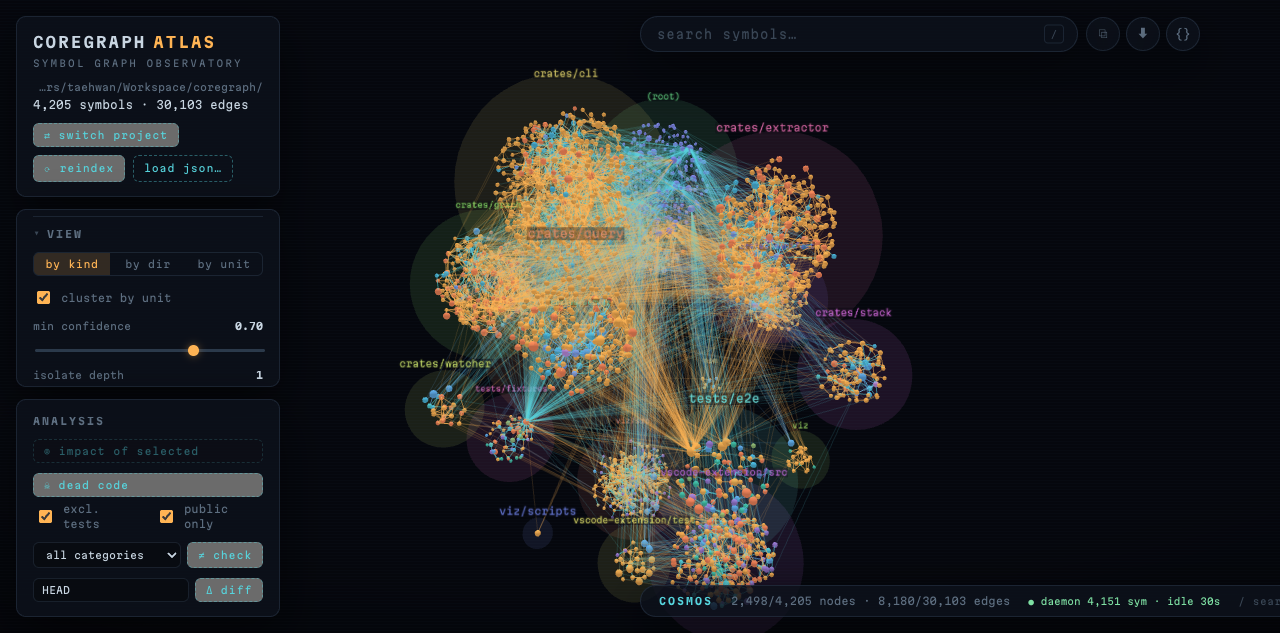
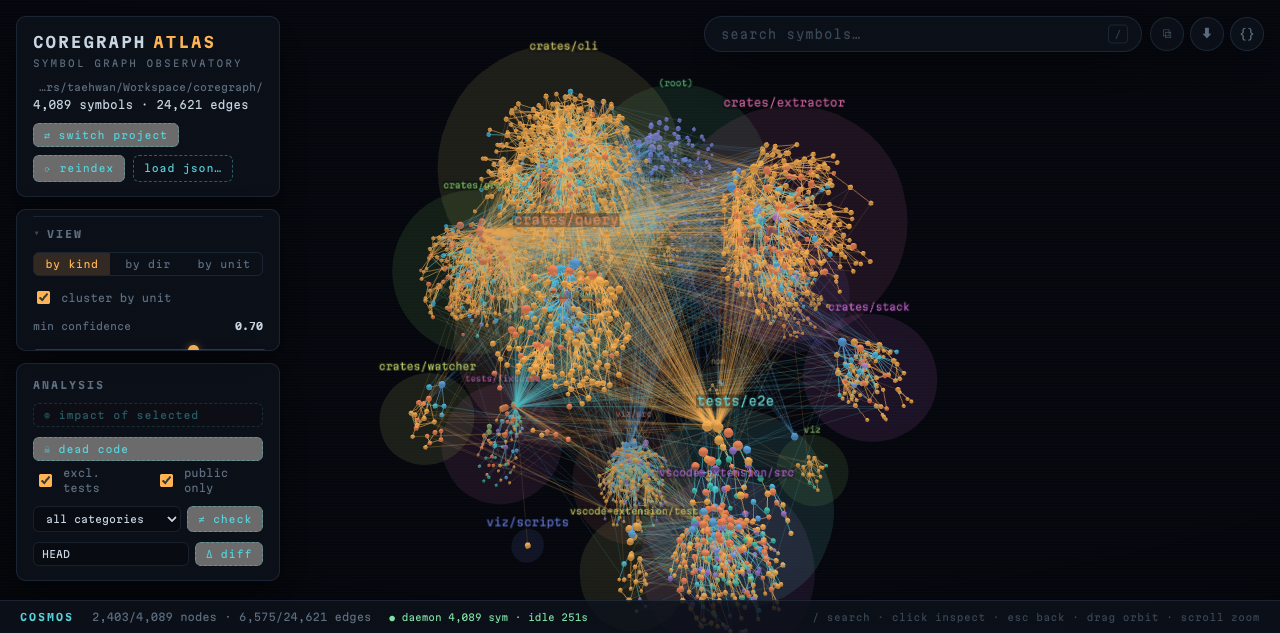
feat(viz): depth fog and per-node cluster pull strength
Add background-colored scene fog whose near/far band tracks the camera
distance, so depth falloff reads the same at cosmos and cluster zoom.
Make the cluster anchor force per-node: high-influence symbols pin to
the cluster core while leaves orbit loosely, giving hubs-in-the-middle
cluster shapes. Refresh the atlas captures (new explore screenshot,
re-shot clusters/impact) and update the README alt texts.

diff --git a/viz/src/components/GraphCanvas.tsx b/viz/src/components/GraphCanvas.tsx
@@ -1,6 +1,6 @@
 import { useCallback, useEffect, useMemo, useRef, useState } from 'react'
 import ForceGraph3D from 'react-force-graph-3d'
-import { Mesh, MeshBasicMaterial, SphereGeometry } from 'three'
+import { Fog, Mesh, MeshBasicMaterial, SphereGeometry } from 'three'
 import SpriteText from 'three-spritetext'
 import type { LinkDatum, NodeDatum } from '../lib/types.ts'
 import { linkEndId } from '../lib/graph.ts'
@@ -158,19 +158,23 @@ function disposeHull(hull: ClusterHull): void {
 }
 
 /**
- * d3-force-compatible custom force pulling each node toward its group anchor.
+ * d3-force-compatible force pulling each node toward its group anchor.
  * Velocity-based like forceX/Y/Z, so it composes with link/charge forces.
+ * The pull strength is per node: high-influence symbols pin to the cluster
+ * core while leaves stay loose and orbit them via their link attraction —
+ * that is what gives each cluster a hub-in-the-middle shape instead of a
+ * uniform ball.
  */
 function makeClusterForce(
   anchorOf: (node: EngineNode) => Anchor | undefined,
-  strength: number,
+  strengthOf: (node: EngineNode) => number,
 ): { (alpha: number): void; initialize: (nodes: EngineNode[]) => void } {
   let nodes: EngineNode[] = []
   const force = (alpha: number): void => {
-    const k = strength * alpha
     for (const node of nodes) {
       const anchor = anchorOf(node)
       if (anchor === undefined || node.x === undefined) continue
+      const k = strengthOf(node) * alpha
       node.vx = (node.vx ?? 0) + (anchor.x - node.x) * k
       node.vy = (node.vy ?? 0) + (anchor.y - (node.y ?? 0)) * k
       node.vz = (node.vz ?? 0) + (anchor.z - (node.z ?? 0)) * k
@@ -490,6 +494,35 @@ export function GraphCanvas({
     tuneControls()
   }, [tuneControls])
 
+  // Depth cue: background-colored fog so distant nodes/links/labels fade
+  // toward the backdrop. The near/far band scales with the camera's distance
+  // from the origin (the graph's center), so the perceived depth falloff is
+  // the same whether the view is fitted to the whole cosmos or zoomed into
+  // one cluster.
+  useEffect(() => {
+    const fg = fgRef.current
+    if (fg === null) return
+    const scene = fg.scene() as { fog: Fog | null }
+    const fog = new Fog(BACKGROUND, 1, 1e9)
+    scene.fog = fog
+    const updateFog = (): void => {
+      const camera = fg.camera() as { position: { x: number; y: number; z: number } }
+      const distance = Math.hypot(camera.position.x, camera.position.y, camera.position.z)
+      fog.near = distance * 0.7
+      fog.far = distance * 2.6
+    }
+    updateFog()
+    const controls = fg.controls() as {
+      addEventListener: (type: string, fn: () => void) => void
+      removeEventListener: (type: string, fn: () => void) => void
+    }
+    controls.addEventListener('change', updateFog)
+    return () => {
+      controls.removeEventListener('change', updateFog)
+      scene.fog = null
+    }
+  }, [])
+
   // While the animated cosmos layout settles, keep the camera tracking the
   // expanding graph with throttled re-fits. Without this the view sits on the
   // initial camera for ~15s and then snaps to a full fit in one jump when the
@@ -583,9 +616,14 @@ export function GraphCanvas({
     const radius = Math.max(360, 95 * Math.sqrt(groups.length) + 60)
     const anchors = sphereAnchors(groups.length, radius)
     const anchorByGroup = new Map(groups.map((group, index) => [group, anchors[index]]))
+    // Influence-weighted pull: a hub is pinned hard to the cluster core,
+    // while low-degree symbols are held only loosely and get arranged
+    // around their hubs by the (intra-cluster) link force.
+    const strengthOf = (node: EngineNode): number =>
+      0.12 + 0.4 * Math.sqrt(Math.min(node.deg, 60) / 60)
     fg.d3Force(
       'cluster',
-      makeClusterForce((node) => anchorByGroup.get(keyOf(node)), 0.32),
+      makeClusterForce((node) => anchorByGroup.get(keyOf(node)), strengthOf),
     )
     // Cross-cluster links are what fold the groups back into one ball — a
     // hub with hundreds of edges overpowers the anchor force even at a low

diff --git a/viz/src/styles.css b/viz/src/styles.css
@@ -128,7 +128,8 @@ button {
   z-index: 10;
   top: 16px;
   left: 16px;
-  bottom: 16px;
+  /* Clear the full-width status bar at the bottom. */
+  bottom: 52px;
   width: 264px;
   display: flex;
   flex-direction: column;
@@ -505,8 +506,8 @@ input[type='range']::-webkit-slider-thumb {
   position: fixed;
   z-index: 20;
   top: 16px;
-  left: 50%;
-  transform: translateX(-50%);
+  /* Anchored to the right edge, sharing the detail panel's gutter line. */
+  right: 16px;
   width: min(560px, 46vw);
   display: flex;
   align-items: center;
@@ -1224,21 +1225,27 @@ input[type='range']::-webkit-slider-thumb {
 .status-bar {
   position: fixed;
   z-index: 10;
-  bottom: 16px;
-  left: 50%;
-  transform: translateX(-50%);
+  bottom: 0;
+  left: 0;
+  right: 0;
   display: flex;
   align-items: center;
   gap: 18px;
-  padding: 7px 18px;
+  padding: 8px 20px;
   background: var(--panel);
-  border: 1px solid var(--line);
-  border-radius: 999px;
-  box-shadow: var(--shadow);
+  border-top: 1px solid var(--line);
   backdrop-filter: blur(16px) saturate(1.25);
   -webkit-backdrop-filter: blur(16px) saturate(1.25);
   white-space: nowrap;
+  overflow: hidden;
   animation: panel-in 0.5s cubic-bezier(0.22, 1, 0.36, 1) 0.2s both;
+}
+
+/* Keep the keyboard hints from clipping mid-glyph; push them to the right. */
+.status-bar .hints {
+  margin-left: auto;
+  overflow: hidden;
+  text-overflow: ellipsis;
 }
 
 .mode {

diff --git a/README.md b/README.md
@@ -361,7 +361,11 @@ What you can do in the viewer:
   when the graph changes on disk; it never resets your camera behind your back.
 
 <p align="center">
-  <img src="docs/assets/atlas-impact.png" alt="coregraph atlas — impact analysis of one symbol: reachable nodes glow by hop distance while the side panel shows reachable/caller counts, a risk bar, and the affected tests" width="860">
+  <img src="docs/assets/atlas-explore.png" alt="coregraph atlas — exploring one symbol: its isolated neighborhood fills the canvas with labeled neighbors while the side panel shows the symbol's kind, file, source preview, and incident edges" width="860">
+</p>
+
+<p align="center">
+  <img src="docs/assets/atlas-impact.png" alt="coregraph atlas — impact analysis of one symbol: its transitive dependents glow against the dimmed graph while the side panel shows reachable/caller counts, a risk bar, and the affected tests" width="860">
 </p>
 
 ---
